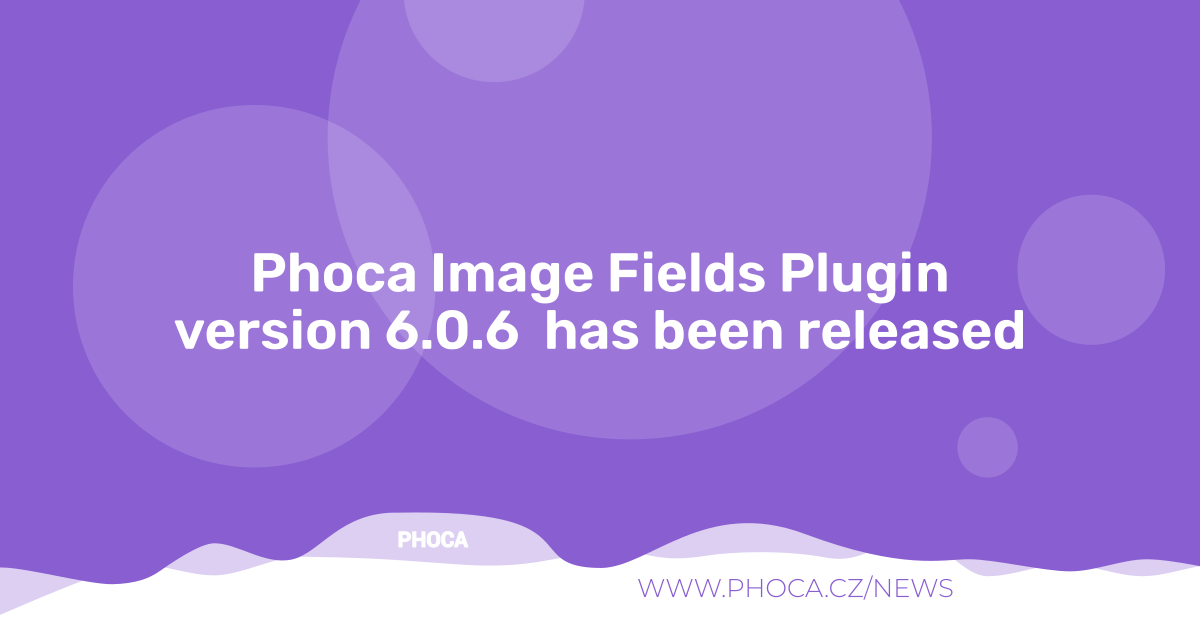
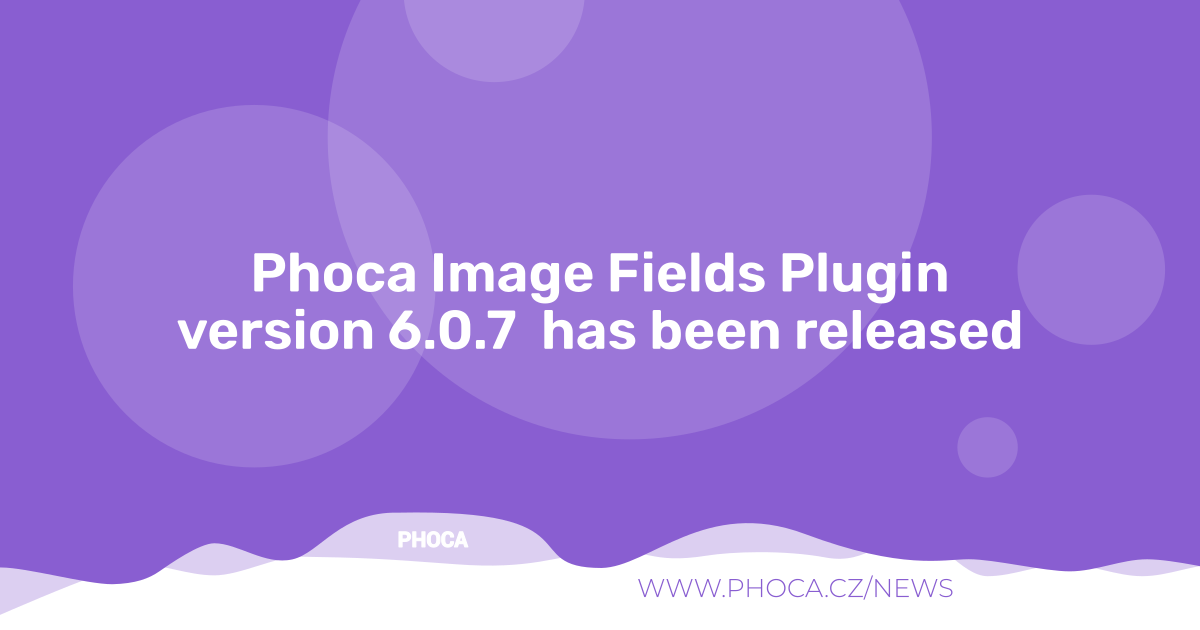
6.0.7

Changed region(s): [[0.1542, 0.4825, 0.8633, 0.573]]

diff --git a/src/Helper/ImageHelper.php b/src/Helper/ImageHelper.php
@@ -52,6 +52,22 @@ final class ImageHelper
     ];
 
     /**
+     * Allowed resize modes for resizeToFit() (used when NOT cropping).
+     *
+     * @var    array<int, string>
+     * @since  6.0.7
+     */
+    private const RESIZE_MODES = ['fit', 'width', 'height', 'stretch', 'fit_shrink_only'];
+
+    /**
+     * Allowed crop anchor positions for cropToFit().
+     *
+     * @var    array<int, string>
+     * @since  6.0.7
+     */
+    private const CROP_POSITIONS = ['center', 'top', 'bottom', 'left', 'right'];
+
+    /**
      * Strictly validate that a file is a genuine, fully-decodable image of an
      * allowed type, and return the decoded GD resource.
      *
@@ -176,12 +192,19 @@ final class ImageHelper
     /**
      * Generate medium and large thumbnails from source image.
      *
-     * @param   string              $sourcePath   Path to the source image.
-     * @param   string              $destDir      Destination directory for thumbnails.
-     * @param   array<string, int>  $mediumSize   Medium thumbnail dimensions ['width', 'height'].
-     * @param   array<string, int>  $largeSize    Large thumbnail dimensions ['width', 'height'].
-     * @param   bool                $cropToFit    Whether to crop to exact dimensions.
-     * @param   int                 $quality      Output quality (0-100).
+     * @param   string              $sourcePath     Path to the source image.
+     * @param   string              $destDir        Destination directory for thumbnails.
+     * @param   array<string, int>  $mediumSize     Medium thumbnail dimensions ['width', 'height'].
+     * @param   array<string, int>  $largeSize      Large thumbnail dimensions ['width', 'height'].
+     * @param   bool                $cropMedium     Whether to crop the medium thumbnail to exact dimensions.
+     * @param   bool                $cropLarge      Whether to crop the large thumbnail to exact dimensions.
+     * @param   int                 $quality        Output quality (0-100).
+     * @param   string              $noCropMode     Resize mode used for a thumbnail when it is NOT being cropped
+     *                                               (fit|width|height|stretch|fit_shrink_only). Has no effect on a
+     *                                               thumbnail that IS being cropped.
+     * @param   string              $cropPosition   Anchor position used when a thumbnail IS being cropped
+     *                                               (center|top|bottom|left|right). Has no effect on a thumbnail
+     *                                               that is not being cropped.
      *
      * @return  array<string, string>  Paths to generated thumbnails.
      *
@@ -192,8 +215,11 @@ final class ImageHelper
         string $destDir,
         array $mediumSize,
         array $largeSize,
-        bool $cropToFit,
-        int $quality
+        bool $cropMedium,
+        bool $cropLarge,
+        int $quality,
+        string $noCropMode = 'fit',
+        string $cropPosition = 'center'
     ): array {
         $source = self::createFromFile($sourcePath);
 
@@ -213,7 +239,9 @@ final class ImageHelper
             $source,
             $mediumSize['width'],
             $mediumSize['height'],
-            $cropToFit
+            $cropMedium,
+            $noCropMode,
+            $cropPosition
         );
 
         $mediumPath = $destDir . '/phoca_thumb_m_' . $filename;
@@ -227,7 +255,9 @@ final class ImageHelper
             $source,
             $largeSize['width'],
             $largeSize['height'],
-            $cropToFit
+            $cropLarge,
+            $noCropMode,
+            $cropPosition
         );
 
         $largePath = $destDir . '/phoca_thumb_l_' . $filename;
@@ -312,6 +342,8 @@ final class ImageHelper
      * @param   int       $targetWidth   Target width in pixels.
      * @param   int       $targetHeight  Target height in pixels.
      * @param   bool      $cropToFit     Whether to crop to exact dimensions.
+     * @param   string    $noCropMode    Resize mode used when NOT cropping (fit|width|height|stretch|fit_shrink_only).
+     * @param   string    $cropPosition  Anchor position used when cropping (center|top|bottom|left|right).
      *
      * @return  \GdImage
      *
@@ -321,26 +353,44 @@ final class ImageHelper
         \GdImage $image,
         int $targetWidth,
         int $targetHeight,
-        bool $cropToFit
+        bool $cropToFit,
+        string $noCropMode = 'fit',
+        string $cropPosition = 'center'
     ): \GdImage {
         $srcWidth  = imagesx($image);
         $srcHeight = imagesy($image);
 
         if ($cropToFit) {
-            return self::cropToFit($image, $srcWidth, $srcHeight, $targetWidth, $targetHeight);
+            return self::cropToFit($image, $srcWidth, $srcHeight, $targetWidth, $targetHeight, $cropPosition);
         }
 
-        return self::resizeToFit($image, $srcWidth, $srcHeight, $targetWidth, $targetHeight);
+        return self::resizeToFit($image, $srcWidth, $srcHeight, $targetWidth, $targetHeight, $noCropMode);
     }
 
     /**
-     * Resize image to fit within dimensions while maintaining aspect ratio.
+     * Resize image to fit within dimensions, in one of several modes.
+     *
+     * This is only used for a thumbnail size that is NOT being cropped (see
+     * $noCropMode in generateThumbnails() / resizeAndCrop()) - when cropping
+     * is enabled for a size, cropToFit() is used instead and this mode
+     * setting has no effect.
      *
      * @param   \GdImage  $image         The source GD image.
      * @param   int       $srcWidth      Source width.
      * @param   int       $srcHeight     Source height.
      * @param   int       $targetWidth   Target width.
      * @param   int       $targetHeight  Target height.
+     * @param   string    $mode          One of:
+     *                                   - fit (default): scale to fit entirely inside the target box,
+     *                                     preserving aspect ratio. The whole image stays visible.
+     *                                   - width: scale to exactly match target width; height follows
+     *                                     the aspect ratio and target height is ignored.
+     *                                   - height: scale to exactly match target height; width follows
+     *                                     the aspect ratio and target width is ignored.
+     *                                   - stretch: force to exactly target width AND height, distorting
+     *                                     the aspect ratio if they don't match.
+     *                                   - fit_shrink_only: same as 'fit', but never upscales - an image
+     *                                     already smaller than the target box is left at its own size.
      *
      * @return  \GdImage
      *
@@ -351,20 +401,75 @@ final class ImageHelper
         int $srcWidth,
         int $srcHeight,
         int $targetWidth,
-        int $targetHeight
+        int $targetHeight,
+        string $mode = 'fit'
     ): \GdImage {
-        $srcRatio    = $srcWidth / $srcHeight;
-        $targetRatio = $targetWidth / $targetHeight;
-
-        if ($srcRatio > $targetRatio) {
-            // Source is wider - fit to width
-            $newWidth  = $targetWidth;
-            $newHeight = (int) round($targetWidth / $srcRatio);
-        } else {
-            // Source is taller - fit to height
-            $newHeight = $targetHeight;
-            $newWidth  = (int) round($targetHeight * $srcRatio);
+        if (!in_array($mode, self::RESIZE_MODES, true)) {
+            $mode = 'fit';
         }
+
+        switch ($mode) {
+            case 'width':
+                // Scales the image to strictly match the target width. Target
+                // height is ignored; new height follows the aspect ratio.
+                // Use case: blog post images, fluid column layouts.
+                $scale     = $targetWidth / $srcWidth;
+                $newWidth  = $targetWidth;
+                $newHeight = (int) round($srcHeight * $scale);
+                break;
+
+            case 'height':
+                // Scales the image to strictly match the target height. Target
+                // width is ignored; new width follows the aspect ratio.
+                // Use case: horizontal scrolling carousels, masonry galleries.
+                $scale     = $targetHeight / $srcHeight;
+                $newWidth  = (int) round($srcWidth * $scale);
+                $newHeight = $targetHeight;
+                break;
+
+            case 'stretch':
+                // Forces the image to exactly match target width and height.
+                // Will distort (squash/stretch) the image if aspect ratios differ.
+                // Use case: strict legacy UI requirements or specific graphic elements.
+                $newWidth  = $targetWidth;
+                $newHeight = $targetHeight;
+                break;
+
+            case 'fit_shrink_only':
+                // Same as 'fit', but never upscales: if the original is already
+                // smaller than the target box in both dimensions, it is kept at
+                // its own size. Otherwise falls through to standard 'fit' logic.
+                // Use case: avoid blowing up small icons/logos into blurry thumbnails.
+                if ($srcWidth <= $targetWidth && $srcHeight <= $targetHeight) {
+                    $newWidth  = $srcWidth;
+                    $newHeight = $srcHeight;
+                    break;
+                }
+                // Falls through intentionally when the source is larger than the target.
+            case 'fit':
+            default:
+                // Scales the image to fit entirely inside the target box while
+                // preserving the aspect ratio. Use case: standard thumbnails
+                // where the whole image must stay visible.
+                $srcRatio    = $srcWidth / $srcHeight;
+                $targetRatio = $targetWidth / $targetHeight;
+
+                if ($srcRatio > $targetRatio) {
+                    // Source is wider - fit to width
+                    $newWidth  = $targetWidth;
+                    $newHeight = (int) round($targetWidth / $srcRatio);
+                } else {
+                    // Source is taller - fit to height
+                    $newHeight = $targetHeight;
+                    $newWidth  = (int) round($targetHeight * $srcRatio);
+                }
+                break;
+        }
+
+        // Guard against degenerate 0px dimensions from rounding on extreme
+        // aspect ratios (e.g. a 1px-tall source image).
+        $newWidth  = max(1, $newWidth);
+        $newHeight = max(1, $newHeight);
 
         $resized = imagecreatetruecolor($newWidth, $newHeight);
         self::preserveTransparency($resized, $image);
@@ -386,13 +491,21 @@ final class ImageHelper
     }
 
     /**
-     * Crop image to exact dimensions using center cropping.
+     * Crop image to exact dimensions.
      *
      * @param   \GdImage  $image         The source GD image.
      * @param   int       $srcWidth      Source width.
      * @param   int       $srcHeight     Source height.
      * @param   int       $targetWidth   Target width.
      * @param   int       $targetHeight  Target height.
+     * @param   string    $position      Which part of the image to keep visible when cropping:
+     *                                   center (default), top, bottom, left, or right. top/bottom
+     *                                   only have an effect when height is being cropped (source is
+     *                                   taller than the target ratio); left/right only have an effect
+     *                                   when width is being cropped (source is wider than the target
+     *                                   ratio). Use case: e.g. 'top' for portraits so faces near the
+     *                                   top of the frame aren't cut off; 'bottom' for a footer strip
+     *                                   of logos where the subject sits low in the frame.
      *
      * @return  \GdImage
      *
@@ -403,23 +516,40 @@ final class ImageHelper
         int $srcWidth,
         int $srcHeight,
         int $targetWidth,
-        int $targetHeight
+        int $targetHeight,
+        string $position = 'center'
     ): \GdImage {
+        if (!in_array($position, self::CROP_POSITIONS, true)) {
+            $position = 'center';
+        }
+
         $srcRatio    = $srcWidth / $srcHeight;
         $targetRatio = $targetWidth / $targetHeight;
 
         if ($srcRatio > $targetRatio) {
-            // Source is wider - crop width
+            // Source is wider - crop width (trimming the left/right edges)
             $cropHeight = $srcHeight;
             $cropWidth  = (int) round($srcHeight * $targetRatio);
-            $cropX      = (int) round(($srcWidth - $cropWidth) / 2);
             $cropY      = 0;
+
+            $available = $srcWidth - $cropWidth;
+            $cropX     = match ($position) {
+                'left'  => 0,
+                'right' => $available,
+                default => (int) round($available / 2),
+            };
         } else {
-            // Source is taller - crop height
+            // Source is taller - crop height (trimming the top/bottom edges)
             $cropWidth  = $srcWidth;
             $cropHeight = (int) round($srcWidth / $targetRatio);
             $cropX      = 0;
-            $cropY      = (int) round(($srcHeight - $cropHeight) / 2);
+
+            $available = $srcHeight - $cropHeight;
+            $cropY     = match ($position) {
+                'top'    => 0,
+                'bottom' => $available,
+                default  => (int) round($available / 2),
+            };
         }
 
         $cropped = imagecreatetruecolor($targetWidth, $targetHeight);

diff --git a/src/Extension/Phocaimage.php b/src/Extension/Phocaimage.php
@@ -715,6 +715,15 @@ WEBCONFIG;
         $safeExtension = $decoded['extension'];
         $image         = $decoded['image'];
 
+        // Capture the original dimensions now, from the decoded image itself,
+        // rather than re-reading them from disk later via getimagesize(). This
+        // is required because the original file on disk may be deleted below
+        // (see keep_original) once thumbnails have been generated - and it's
+        // also simply more reliable than a second round-trip through the
+        // filesystem for information we already have in memory.
+        $origWidth  = imagesx($image);
+        $origHeight = imagesy($image);
+
         // The stored extension is derived exclusively from the detected MIME type
         // of the successfully decoded image, never from the uploaded filename.
         // This makes it impossible for an attacker to control the extension the
@@ -791,7 +800,22 @@ WEBCONFIG;
             'width'  => (int) $this->params->get('large_width', 1200),
             'height' => (int) $this->params->get('large_height', 800),
         ];
-        $cropToFit = (bool) $this->params->get('crop_to_fit', false);
+
+        // crop_to_fit now selects WHICH thumbnail size(s) get cropped to exact
+        // dimensions rather than a single on/off switch for both:
+        //   no     - neither thumbnail is cropped (both use the no-crop resize mode)
+        //   medium - only the medium thumbnail is cropped
+        //   large  - only the large thumbnail is cropped
+        //   both   - both thumbnails are cropped (default, matches the old "Yes" behavior)
+        $cropMode   = (string) $this->params->get('crop_to_fit', 'both');
+        $cropMedium = in_array($cropMode, ['medium', 'both'], true);
+        $cropLarge  = in_array($cropMode, ['large', 'both'], true);
+
+        // Only relevant for a size that is NOT being cropped (see $cropMode above).
+        $noCropResizeMode = (string) $this->params->get('no_crop_resize_mode', 'fit');
+
+        // Only relevant for a size that IS being cropped.
+        $cropPosition = (string) $this->params->get('crop_position', 'center');
 
         // Get mime type for quality
         $finfo    = new \finfo(FILEINFO_MIME_TYPE);
@@ -803,25 +827,32 @@ WEBCONFIG;
             $destPath,
             $mediumSize,
             $largeSize,
-            $cropToFit,
-            $quality
+            $cropMedium,
+            $cropLarge,
+            $quality,
+            $noCropResizeMode,
+            $cropPosition
         );
 
-        // Get image dimensions for PhotoSwipe safely
-        $imageSize = @getimagesize($destFile);
-        $width     = 0;
-        $height    = 0;
-
-        if ($imageSize) {
-            $width  = (int) $imageSize[0];
-            $height = (int) $imageSize[1];
+        // Optionally remove the original full-size image once thumbnails
+        // exist, keeping only the thumbnails (saves disk space on large
+        // uploads). This only ever happens if BOTH thumbnails were actually
+        // generated successfully - if generation failed for either size, the
+        // original is kept regardless of this setting, since it's the only
+        // remaining fallback the frontend/backend gallery can display (see
+        // backend-uploader.js's "falling back to original" behavior).
+        $keepOriginal = (bool) $this->params->get('keep_original', 1);
+        if (!$keepOriginal && isset($thumbnails['medium'], $thumbnails['large'])) {
+            if (file_exists($destFile)) {
+                @unlink($destFile);
+            }
         }
 
         return [
             'success'    => true,
             'filename'   => $filename,
-            'width'      => $width,
-            'height'     => $height,
+            'width'      => $origWidth,
+            'height'     => $origHeight,
             'thumbnails' => $thumbnails,
         ];
     }

diff --git a/README.MD b/README.MD
@@ -63,7 +63,7 @@ If you need additional information beyond this GitHub repository, further docume
 - [Phoca (Demo)](https://www.phoca.cz)
 
 ### Version (Joomla! 6.x)
-6.0.6
+6.0.7
 
 ### License
 
